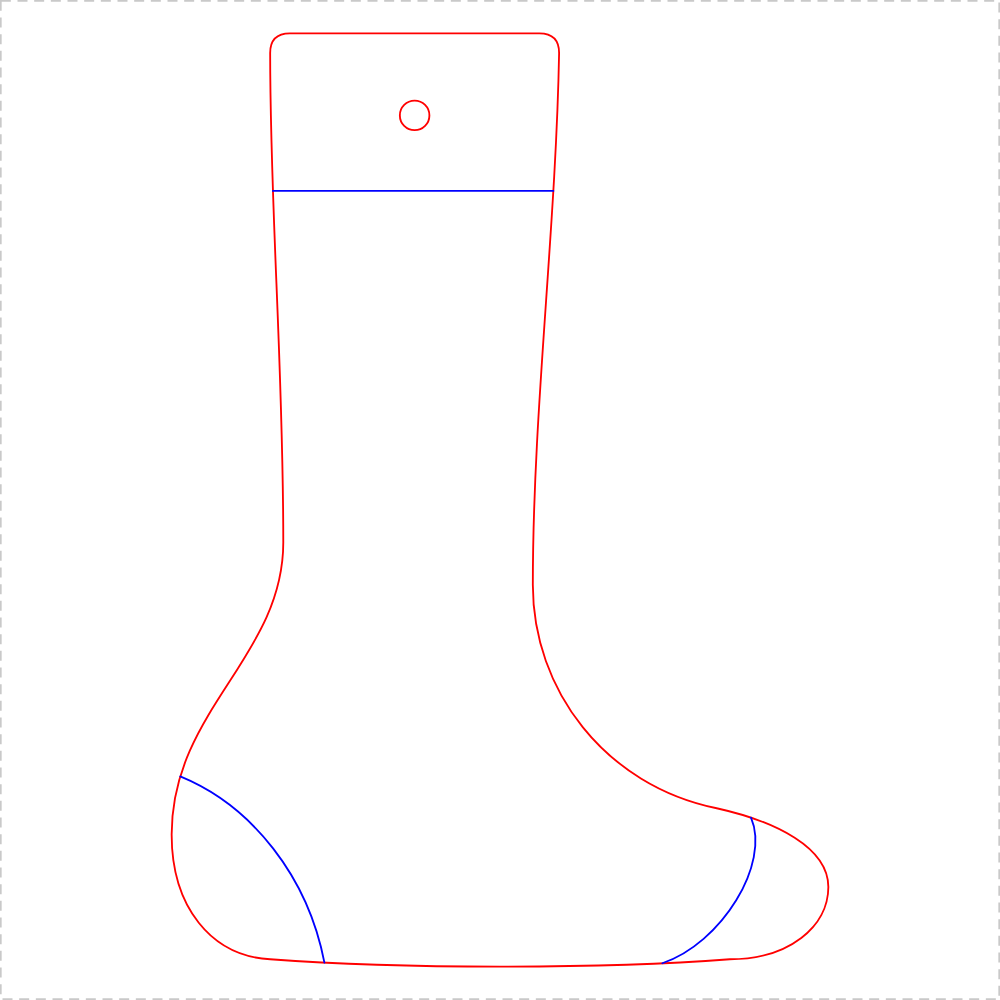
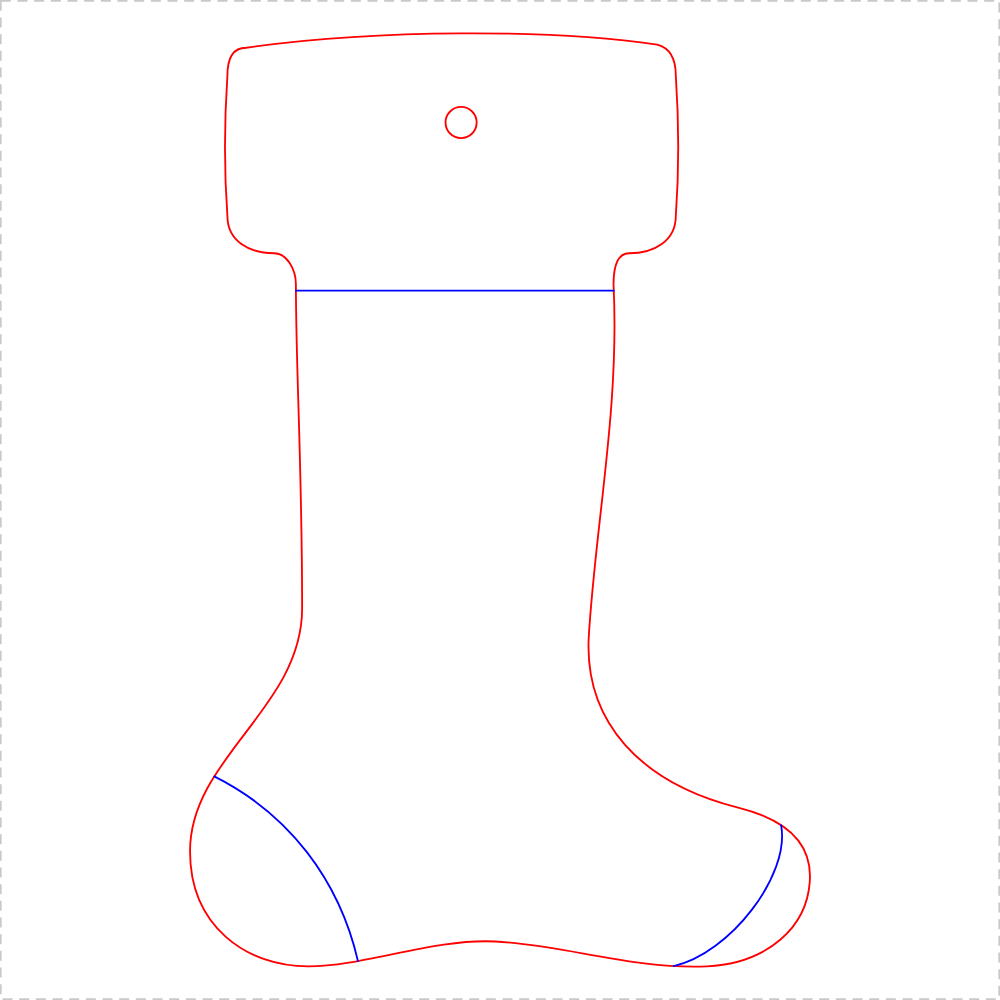
Reshape the stocking to a classic Christmas stocking silhouette
The first outline read as a sock, and a reference image showed what was
missing. Redrawn around three cues:

  - a wide cuff band, notched in at both sides, clearly broader than the leg
  - a leg narrower than the cuff, easing into the ankle
  - a foot reaching well forward of the leg into a big rounded toe, over a
    gently arched sole with a smaller heel bulb behind it

Only the OUTLINE segment list and the score anchors changed; every layout is
still a scaled copy of that one path, so all three files pick the new shape up
and the nesting search re-solves for it.

The ribbon hole is now placed over the shape's centre of mass instead of the
middle of the cuff. The foot sticks out to one side, so a centred hole hung
the piece toe-down; over the centroid it hangs upright.

Sizes move with the new proportions:

  stocking-large.svg      1 up, 186 x 280 mm
  stocking-pair.svg       2 up nested, 154 x 232 mm each
  stocking-ornaments.svg  6 up, 89 x 134 mm each

Measured clearances are unchanged: 5.0 mm between parts on the pair, 6.2 mm
on the ornaments, 10 mm to the sheet edge throughout.

Claude-Session: https://claude.ai/code/session_01BWgFotmbsPyh8GEahZWW4s

diff --git a/stocking-template/generate_stockings.py b/stocking-template/generate_stockings.py
@@ -45,27 +45,39 @@ STROKE_W = 0.1              # thin stroke; the laser cuts the path centreline
 # --------------------------------------------------------------------------
 
 OUTLINE = [
-    ("cuff-top",   "L", (36, 0), (112, 0)),
-    ("corner-tr",  "C", (112, 0), (116, 0), (118, 2), (118, 6)),
-    ("leg-front",  "C", (118, 6), (117, 60), (110, 115), (110, 168)),
-    ("instep",     "C", (110, 168), (110, 200), (132, 229), (166, 236)),
-    ("toe-upper",  "C", (166, 236), (184, 240), (200, 248), (200, 260)),
-    ("toe-tip",    "C", (200, 260), (200, 272), (188, 282), (170, 282)),
-    ("sole",       "C", (170, 282), (130, 285), (70, 285), (30, 282)),
-    ("heel-under", "C", (30, 282), (12, 281), (0, 266), (0, 244)),
-    ("heel-back",  "C", (0, 244), (0, 206), (34, 190), (34, 155)),
-    ("leg-back",   "C", (34, 155), (34, 100), (30, 55), (30, 6)),
-    ("corner-tl",  "C", (30, 6), (30, 2), (32, 0), (36, 0)),
+    # --- cuff: a wide band with a gently bowed top edge, notched in at the
+    # bottom on both sides.  The overhang and the notch are what make this
+    # read as a Christmas stocking rather than a sock. ---
+    ("cuff-top",   "C", (18, 6), (60, 0), (116, 0), (150, 5)),
+    ("corner-tr",  "C", (150, 5), (154, 6), (156, 9), (156, 15)),
+    ("cuff-right", "C", (156, 15), (157, 30), (157, 46), (156, 60)),
+    ("notch-r",    "C", (156, 60), (156, 68), (149, 72), (141, 72)),
+    ("shoulder-r", "C", (141, 72), (137, 72), (136, 77), (136, 82)),
+    # --- leg: narrower than the cuff, easing into the ankle ---
+    ("leg-front",  "C", (136, 82), (138, 122), (130, 160), (128, 196)),
+    # --- foot: reaches well forward of the leg, big rounded toe ---
+    ("instep",     "C", (128, 196), (127, 222), (144, 242), (176, 250)),
+    ("toe-upper",  "C", (176, 250), (192, 254), (200, 262), (199, 274)),
+    ("toe-tip",    "C", (199, 274), (198, 288), (186, 300), (166, 301)),
+    ("sole-toe",   "C", (166, 301), (142, 302), (120, 294), (98, 293)),
+    ("sole-heel",  "C", (98, 293), (78, 292), (56, 301), (38, 301)),
+    ("heel-under", "C", (38, 301), (18, 301), (0, 288), (0, 264)),
+    ("heel-back",  "C", (0, 264), (0, 234), (36, 218), (36, 186)),
+    ("leg-back",   "C", (36, 186), (36, 140), (34, 110), (34, 82)),
+    ("shoulder-l", "C", (34, 82), (34, 77), (31, 72), (27, 72)),
+    ("notch-l",    "C", (27, 72), (19, 72), (12, 68), (12, 60)),
+    ("cuff-left",  "C", (12, 60), (11, 46), (11, 30), (12, 15)),
+    ("corner-tl",  "C", (12, 15), (12, 9), (14, 6), (18, 6)),
 ]
 
-CUFF_Y = 48.0                       # cuff band score, this far below the top
-HANG_HOLE_CENTRE = (74.0, 25.0)     # centred in the cuff band
-HANG_HOLE_DIA = 9.0                 # takes a fat ribbon or twine
+CUFF_Y = 84.0                       # closes off the cuff band for painting
+HANG_HOLE_Y = 30.0                  # height of the ribbon hole within the cuff
+HANG_HOLE_DIA = 10.0
 
 # Score lines anchored to (segment name, t) points on the outline, with the
 # two Bezier handles given as offsets from those anchors.
-HEEL_SCORE = (("heel-back", 0.17), (22, 9), ("sole", 0.87), (-5, -26))
-TOE_SCORE = (("sole", 0.16), (18, -6), ("toe-upper", 0.20), (6, 14))
+HEEL_SCORE = (("heel-back", 0.30), (24, 12), ("sole-heel", 0.72), (-6, -26))
+TOE_SCORE = (("sole-toe", 0.15), (18, -4), ("toe-upper", 0.35), (3, 16))
 
 FLATTEN_STEPS = 48                  # samples per cubic when measuring
 
@@ -124,8 +136,21 @@ def bbox(points):
     return min(xs), min(ys), max(xs), max(ys)
 
 
+def centroid_x(points):
+    """Area-weighted centroid x of a closed polygon."""
+    area = cx = 0.0
+    for (ax, ay), (bx, by) in zip(points, points[1:] + points[:1]):
+        cross = ax * by - bx * ay
+        area += cross
+        cx += (ax + bx) * cross
+    return cx / (3.0 * area)
+
+
 BASE = geometry(OUTLINE)
 BASE_BBOX = bbox(flatten(BASE))
+# The foot sticks out to one side, so a hole in the middle of the cuff would
+# hang crooked.  Putting it over the centre of mass makes the piece hang level.
+HANG_HOLE_CENTRE = (centroid_x(flatten(BASE)), HANG_HOLE_Y)
 BASE_W = BASE_BBOX[2] - BASE_BBOX[0]
 BASE_H = BASE_BBOX[3] - BASE_BBOX[1]
 

diff --git a/stocking-template/README.md b/stocking-template/README.md
@@ -9,9 +9,9 @@ onto the sheet at the right size with no scaling.
 
 | File | What you get | Size of one stocking |
 |---|---|---|
-| [`svg/stocking-large.svg`](svg/stocking-large.svg) | 1 stocking, as big as the sheet allows | **197 × 280 mm** |
-| [`svg/stocking-pair.svg`](svg/stocking-pair.svg) | 2 stockings nested head-to-toe | **173 × 246 mm** |
-| [`svg/stocking-ornaments.svg`](svg/stocking-ornaments.svg) | 6 smaller stockings | **89 × 127 mm** |
+| [`svg/stocking-large.svg`](svg/stocking-large.svg) | 1 stocking, as big as the sheet allows | **186 × 280 mm** |
+| [`svg/stocking-pair.svg`](svg/stocking-pair.svg) | 2 stockings nested head-to-toe | **154 × 232 mm** |
+| [`svg/stocking-ornaments.svg`](svg/stocking-ornaments.svg) | 6 smaller stockings | **89 × 134 mm** |
 
 <p align="center">
   <img src="preview/stocking-large.png" width="32%" alt="One large stocking on the sheet">
@@ -19,10 +19,15 @@ onto the sheet at the right size with no scaling.
   <img src="preview/stocking-ornaments.png" width="32%" alt="Six smaller stockings in a grid">
 </p>
 
-Every stocking has a **9 mm ribbon hole** in the cuff (8 mm on the ornaments)
+The silhouette is the classic one: a **wide cuff band** notched in at both
+sides, a leg narrower than the cuff, and a foot reaching well forward into a
+big rounded toe over a gently **arched sole**.
+
+Every stocking has a **10 mm ribbon hole** in the cuff (8 mm on the ornaments)
 and three **score** lines — the cuff band, a heel patch and a toe patch — which
-give kids something to paint inside and make the shape read as a stocking
-rather than a boot.
+close off the areas kids paint. The ribbon hole is placed over the shape's
+centre of mass rather than the middle of the cuff, so the piece hangs upright
+instead of tipping toe-down.
 
 ## Line colours
 
@@ -42,7 +47,7 @@ you may prefer no marks at all.
 1. **Upload.** Glowforge app → *Create* → *Upload* → pick the SVG.
 2. **Check the scale before you print.** Select the stocking and read the
    size Glowforge reports. It must match the table above — the large one is
-   **197.0 × 280.0 mm**. If it comes in at some other size, the importer has
+   **186.0 × 280.0 mm**. If it comes in at some other size, the importer has
    rescaled it; type the correct dimensions in and re-centre on the material.
 3. **Set the steps.** Red → Cut, blue → Score or Ignore.
 4. **Test first.** Run a small test cut on a scrap corner of the same sheet
@@ -102,15 +107,16 @@ Useful knobs near the top of `generate_stockings.py`:
   Everything else is a scaled copy of it, so the shape only has to be right once.
 - `SHEET`, `MARGIN`, `CLEARANCE` — sheet size, edge margin and the gap held
   between parts.
-- `HANG_HOLE_DIA`, `HANG_HOLE_CENTRE` — ribbon hole, or drop it by passing
-  `hang_hole=False`.
+- `HANG_HOLE_DIA`, `HANG_HOLE_Y` — ribbon hole size and how far down the cuff
+  it sits; its x position is computed from the centroid. Drop it entirely by
+  passing `hang_hole=False`.
 - `CUFF_Y`, `HEEL_SCORE`, `TOE_SCORE` — the decorative score lines.
 
 `generate_stockings.py` prints a measured report each run, so layout changes
 are checked rather than eyeballed:
 
 ```
-stocking-pair.svg   2 up  173.3 x 246.2 mm  part gap 5.0 mm  sheet edge 10.0 mm  hole bridge 17.8 mm
+stocking-pair.svg   2 up  153.9 x 231.6 mm  part gap 5.0 mm  sheet edge 10.0 mm  hole bridge 18.3 mm
 ```
 
 - **part gap** — closest approach between two cut outlines
